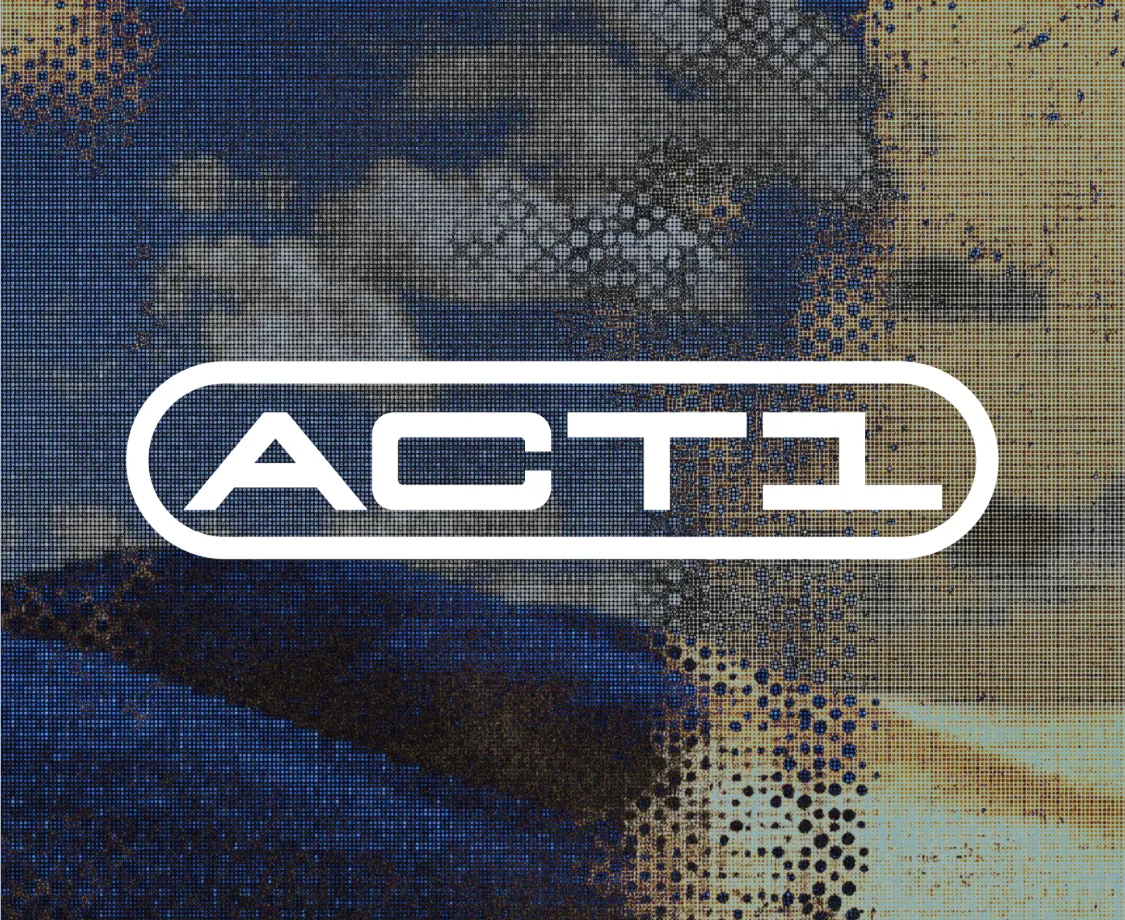
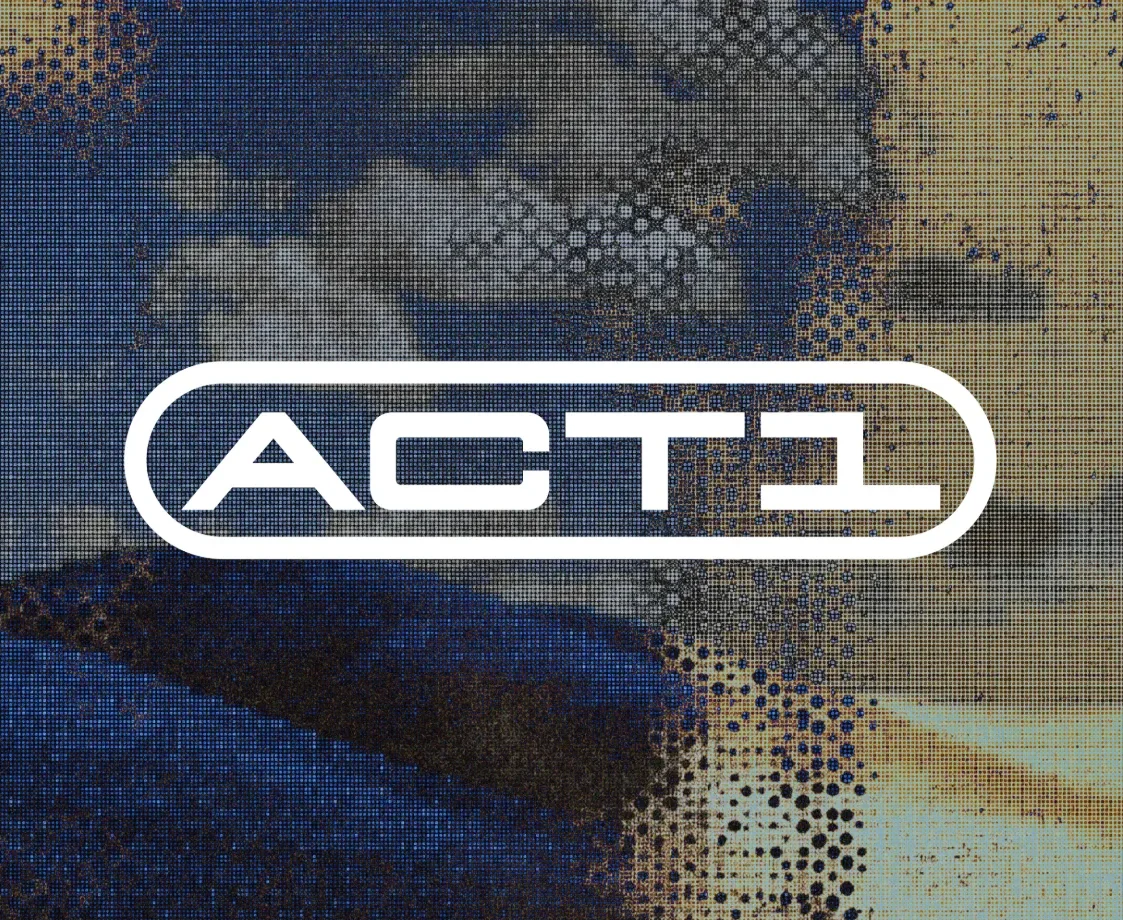
Add Exploration tab for marketing, video and visuals; fix Act One thumbnail edge
- New /exploration page with the visuals grid (moved off the Work page)
- Header: Work / Exploration / Info / Resume; name shortens to 'Chris' on phones so all tabs fit
- Trim the light 1px line from the left edge of the Act One thumbnail

Claude-Session: https://claude.ai/code/session_01X27nn87Ke9h8ftNm64ktzP

diff --git a/src/components/Work.tsx b/src/components/Work.tsx
@@ -2,7 +2,7 @@ import { useEffect, useRef, useState } from 'react'
 import { useReveal } from '../useReveal'
 import { distribute, useColumnCount } from '../layout'
 import AsciiField from './AsciiField'
-import { imgAt, linkProps, playground, profile, projects, type Project } from '../data'
+import { imgAt, linkProps, profile, projects, type Project } from '../data'
 
 // Tile cover: a looping muted clip when the project has one (played only while on screen), otherwise the image
 function Cover({ p }: { p: Project }) {
@@ -57,7 +57,6 @@ export default function Work() {
   }, [previewing])
   const n = useColumnCount()
   const columns = distribute(projects, n)
-  const shots = distribute(playground, n)
 
   return (
     <div ref={root}>
@@ -108,43 +107,6 @@ export default function Work() {
         ))}
       </section>
 
-      <header className="section-label">
-        <h2>Marketing, video & visuals</h2>
-        <p className="muted">Flyers, brands, videos, and whatever else I can't stop myself from making.</p>
-      </header>
-      <section className="grid" aria-label="Marketing, video and visuals">
-        {shots.map((col, c) => (
-          <div key={c} className="grid-col">
-            {col.map(s => {
-              const media = (
-                <>
-                  <div className="tile-media" style={{ aspectRatio: s.aspect }}>
-                    {s.youtube && (
-                      <iframe
-                        src={`https://www.youtube-nocookie.com/embed/${s.youtube}?autoplay=1&mute=1&loop=1&playlist=${s.youtube}&controls=0&playsinline=1&modestbranding=1&rel=0`}
-                        title={s.title}
-                        allow="autoplay; encrypted-media; picture-in-picture"
-                        loading="lazy"
-                      />
-                    )}
-                    {s.src && /\.(mp4|webm)$/.test(s.src) && <video src={s.src} autoPlay muted loop playsInline />}
-                    {s.src && !/\.(mp4|webm)$/.test(s.src) && <img src={s.src} alt={s.title} loading="lazy" />}
-                    {!s.src && !s.youtube && import.meta.env.DEV && <span className="shot-empty">public/playground/ → set src in data.ts</span>}
-                  </div>
-                  <div className="shot-caption">
-                    <h3 className="tile-title">{s.title}{s.href && <span className="shot-arrow" aria-hidden> ↗</span>}</h3>
-                    <p className="tile-tags">{s.caption}</p>
-                  </div>
-                </>
-              )
-              const key = s.youtube ?? s.src ?? s.title
-              return s.href
-                ? <a key={key} {...linkProps(s.href)} className="tile shot is-link reveal">{media}</a>
-                : <figure key={key} className="tile shot reveal">{media}</figure>
-            })}
-          </div>
-        ))}
-      </section>
     </div>
   )
 }

diff --git a/src/data.ts b/src/data.ts
@@ -69,7 +69,7 @@ export const projects: Project[] = [
   { id: 'backtrack', title: 'Backtrack', tags: ['Product Design'], summary: 'Designing an AI assistant that turns meeting notes into action.', when: 'Fall 2025', href: '/work/backtrack', img: framer('XKHJwFkDB4kDxYxSEONjAoi0'), aspect: '1 / 1' },
   { id: 'meteormate', title: 'MeteorMate', tags: ['Product Design'], summary: 'Designing a roommate-matching app from scratch for 20,000+ UT Dallas students.', when: 'Summer 2025', href: '/work/meteormate', img: framer('7agbU5LMHCSPcfO7YHuy97L5PaQ'), aspect: '1 / 1' },
   { id: 'tactile', title: 'Tactile', tags: ['Product Design'], summary: 'A Figma plugin you control with hand gestures, built at FigBuild 2026.', when: '2026', href: '/work/tactile', img: '/work/tactile/tactile-cover.webp', aspect: '2800 / 1991' },
-  { id: 'act-one', title: 'Act One Ventures', tags: ['Brand Design'], summary: 'A first-pass rebrand for a venture capital firm backing AI-native founders.', when: 'Summer 2026', href: '/work/act-one', img: '/work/act-one/thumbnail.webp', aspect: '1125 / 920' },
+  { id: 'act-one', title: 'Act One Ventures', tags: ['Brand Design'], summary: 'A first-pass rebrand for a venture capital firm backing AI-native founders.', when: 'Summer 2026', href: '/work/act-one', img: '/work/act-one/thumbnail.webp', aspect: '1123 / 920' },
   { id: 'arist', title: 'Arist', tags: ['Visual Design'], summary: 'Scaling the visual system of an AI microlearning platform.', when: '2025', href: '/work/arist', img: framer('m2dJpbsJveZCEiAWVrCpBELUX0'), aspect: '1 / 1' },
   { id: 'tennr', title: 'Tennr', tags: ['Visual Design'], summary: 'Refreshing the brand and marketing of a healthcare AI startup.', when: '2025', href: '/work/tennr', img: framer('bPD5Y8PqndjPdKUVdovvOTugaw'), aspect: '16 / 9' },
   { id: 'janus', title: 'Janus', tags: ['Brand Design'], summary: 'Brand and product marketing for a freight finance platform.', when: '2026', href: '/work/janus', img: framer('EkeLjhylkYOjeDEBOhf5IiWJac'), aspect: '16 / 9' },
@@ -77,7 +77,7 @@ export const projects: Project[] = [
   { id: 'oro', title: 'Oro', tags: ['Product Design'], summary: 'Brand and platform UI for a fintech startup.', when: 'Fall 2025', href: '', soon: true, img: framer('LvAj1YZLb6lAVoXA7poLmqsEeEo'), aspect: '1 / 1' },
 ]
 
-// Visual design, graphics, small projects and screens — display-only frames on the Work page.
+// Visual design, graphics, small projects and screens — shown on the Exploration page (/exploration).
 // Titles below are placeholders: rename them, then drop each file into public/playground/
 // and set `src` (e.g. '/playground/poster.png'). Videos (.mp4/.webm) autoplay muted on loop.
 // `href` makes the tile a link; `youtube` (a video id) plays that video muted on loop in the frame

diff --git a/src/components/Exploration.tsx b/src/components/Exploration.tsx
@@ -1,0 +1,51 @@
+import { useReveal } from '../useReveal'
+import { distribute, useColumnCount } from '../layout'
+import { linkProps, playground } from '../data'
+
+// Marketing, video, visuals and side experiments. Add pieces to `playground` in data.ts
+export default function Exploration() {
+  const root = useReveal<HTMLDivElement>()
+  const shots = distribute(playground, useColumnCount())
+
+  return (
+    <div ref={root}>
+      <header className="section-label page-label">
+        <h1 className="rise">Exploration</h1>
+        <p className="muted rise" style={{ animationDelay: '.15s' }}>Flyers, brands, videos, and whatever else I can't stop myself from making.</p>
+      </header>
+      <section className="grid" aria-label="Exploration">
+        {shots.map((col, c) => (
+          <div key={c} className="grid-col">
+            {col.map(s => {
+              const media = (
+                <>
+                  <div className="tile-media" style={{ aspectRatio: s.aspect }}>
+                    {s.youtube && (
+                      <iframe
+                        src={`https://www.youtube-nocookie.com/embed/${s.youtube}?autoplay=1&mute=1&loop=1&playlist=${s.youtube}&controls=0&playsinline=1&modestbranding=1&rel=0`}
+                        title={s.title}
+                        allow="autoplay; encrypted-media; picture-in-picture"
+                        loading="lazy"
+                      />
+                    )}
+                    {s.src && /\.(mp4|webm)$/.test(s.src) && <video src={s.src} autoPlay muted loop playsInline />}
+                    {s.src && !/\.(mp4|webm)$/.test(s.src) && <img src={s.src} alt={s.title} loading="lazy" />}
+                    {!s.src && !s.youtube && import.meta.env.DEV && <span className="shot-empty">public/playground/ → set src in data.ts</span>}
+                  </div>
+                  <div className="shot-caption">
+                    <h3 className="tile-title">{s.title}{s.href && <span className="shot-arrow" aria-hidden> ↗</span>}</h3>
+                    <p className="tile-tags">{s.caption}</p>
+                  </div>
+                </>
+              )
+              const key = s.youtube ?? s.src ?? s.title
+              return s.href
+                ? <a key={key} {...linkProps(s.href)} className="tile shot is-link reveal">{media}</a>
+                : <figure key={key} className="tile shot reveal">{media}</figure>
+            })}
+          </div>
+        ))}
+      </section>
+    </div>
+  )
+}

diff --git a/src/App.tsx b/src/App.tsx
@@ -2,17 +2,21 @@ import { useEffect, useLayoutEffect, useRef, useState } from 'react'
 import Header from './components/Header'
 import Work from './components/Work'
 import Info from './components/Info'
+import Exploration from './components/Exploration'
 import CaseStudy from './components/CaseStudy'
 import Footer from './components/Footer'
 import Cursor from './components/Cursor'
 import { caseStudies } from './caseStudies'
 import { profile, projects } from './data'
 
-// "/" → work, "/info" → info, "/work/<id>" → that case study (unknown ids fall back to work)
+// "/" → work, "/exploration" → exploration, "/info" → info, "/work/<id>" → that case study (unknown ids fall back to work)
 const pageFor = (path: string) => {
   const id = path.match(/^\/work\/([\w-]+)\/?$/)?.[1]
   if (id && caseStudies[id]) return { page: 'case' as const, id }
-  return { page: path.replace(/\/$/, '') === '/info' ? ('info' as const) : ('work' as const), id: '' }
+  const clean = path.replace(/\/$/, '')
+  if (clean === '/info') return { page: 'info' as const, id: '' }
+  if (clean === '/exploration') return { page: 'exploration' as const, id: '' }
+  return { page: 'work' as const, id: '' }
 }
 
 export default function App() {
@@ -68,10 +72,11 @@ export default function App() {
 
   return (
     <>
-      <Header tab={route.page === 'info' ? 'info' : 'work'} onTab={t => navigate(t === 'info' ? '/info' : '/')} />
+      <Header tab={route.page === 'case' ? 'work' : route.page} onTab={t => navigate(t === 'work' ? '/' : `/${t}`)} />
       <main key={path}>
         {route.page === 'case' && <CaseStudy id={route.id} study={caseStudies[route.id]} />}
         {route.page === 'info' && <Info />}
+        {route.page === 'exploration' && <Exploration />}
         {route.page === 'work' && <Work />}
       </main>
       <Footer />

diff --git a/src/index.css b/src/index.css
@@ -70,6 +70,7 @@ ul { list-style: none; }
 .header { transition: background-color .3s, backdrop-filter .3s; }
 .has-field:not(.field-scrolled) .header { background: transparent; backdrop-filter: none; }
 .brand { white-space: nowrap; text-align: left; }
+.brand-short { display: none; }
 .brand:hover { opacity: .6; }
 .nav { display: flex; gap: 28px; align-items: center; }
 .nav button, .nav a { color: var(--muted); transition: color .25s; }
@@ -171,8 +172,11 @@ a.tile:hover .tile-media :is(img, video) { scale: 1.03; transition-duration: 1s;
   .section-label { flex-direction: column; gap: 6px; }
 }
 @media (max-width: 480px) {
-  .header { font-size: 13px; padding-top: 18px; padding-bottom: 18px; }
-  .nav { gap: 16px; }
+  .header { font-size: 12px; padding-top: 18px; padding-bottom: 18px; gap: 12px; }
+  .nav { gap: 14px; }
+  /* Four tabs + the theme toggle need the room: shorten the name on phones */
+  .brand-full { display: none; }
+  .brand-short { display: inline; }
 }
 @media (max-width: 380px) {
   .header { font-size: 12px; gap: 12px; }
@@ -188,7 +192,7 @@ a.tile:hover .tile-media :is(img, video) { scale: 1.03; transition-duration: 1s;
 
 /* ───────── Visuals & experiments ───────── */
 .section-label { display: flex; justify-content: space-between; align-items: baseline; gap: 16px; padding: clamp(120px, 16vh, 200px) var(--gutter) 20px; }
-.section-label h2 { font-size: clamp(24px, 2.4vw, 34px); font-weight: 500; letter-spacing: -.03em; }
+.section-label :is(h1, h2) { font-size: clamp(24px, 2.4vw, 34px); font-weight: 500; letter-spacing: -.03em; }
 .shot { margin: 0; cursor: default; }
 .shot .tile-media { display: grid; place-items: center; }
 .shot video { width: 100%; height: 100%; object-fit: cover; display: block; }

diff --git a/src/components/Header.tsx b/src/components/Header.tsx
@@ -1,14 +1,18 @@
 import ThemeToggle from './ThemeToggle'
 import { profile } from '../data'
 
-export type Tab = 'work' | 'info'
+export type Tab = 'work' | 'exploration' | 'info'
 
 export default function Header({ tab, onTab }: { tab: Tab; onTab: (t: Tab) => void }) {
   return (
     <header className="header">
-      <button className="brand" onClick={() => onTab('work')} aria-label="Home">{profile.name}</button>
+      <button className="brand" onClick={() => onTab('work')} aria-label="Home">
+        <span className="brand-full">{profile.name}</span>
+        <span className="brand-short" aria-hidden>{profile.name.split(' ')[0].replace('Christopher', 'Chris')}</span>
+      </button>
       <nav className="nav">
         <button aria-current={tab === 'work' ? 'page' : undefined} onClick={() => onTab('work')}>Work</button>
+        <button aria-current={tab === 'exploration' ? 'page' : undefined} onClick={() => onTab('exploration')}>Exploration</button>
         <button aria-current={tab === 'info' ? 'page' : undefined} onClick={() => onTab('info')}>Info</button>
         <a href={profile.resume} target="_blank" rel="noreferrer">Resume</a>
         <ThemeToggle />
